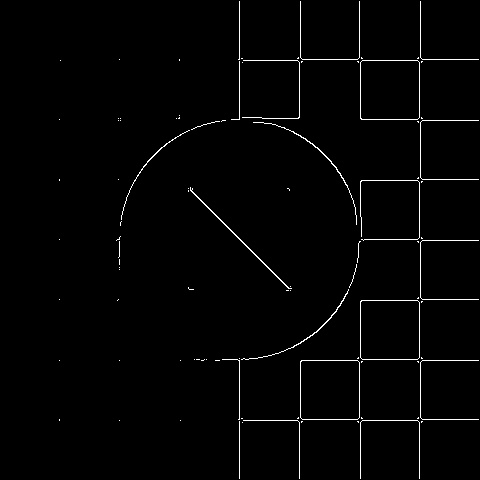
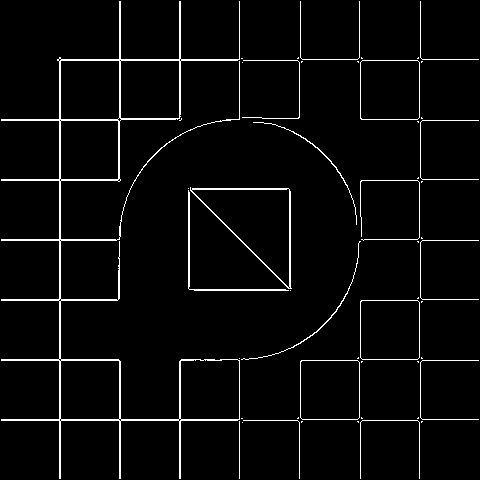
nms中把大于号改为了大于等于号

diff --git a/nonMaxSup.py b/nonMaxSup.py
@@ -47,7 +47,7 @@ def nonMaxSup(Mag,grad_Ori):
                 suppressed[i,j]=0
             else:
                 grad1,grad2=choose(Mag,grad_Ori,i,j)
-                if grad1<Mag[i,j] and grad2<Mag[i,j]:
+                if grad1<=Mag[i,j] and grad2<=Mag[i,j]:
                     suppressed[i,j]=1
                 else:
                     suppressed[i,j]=0
